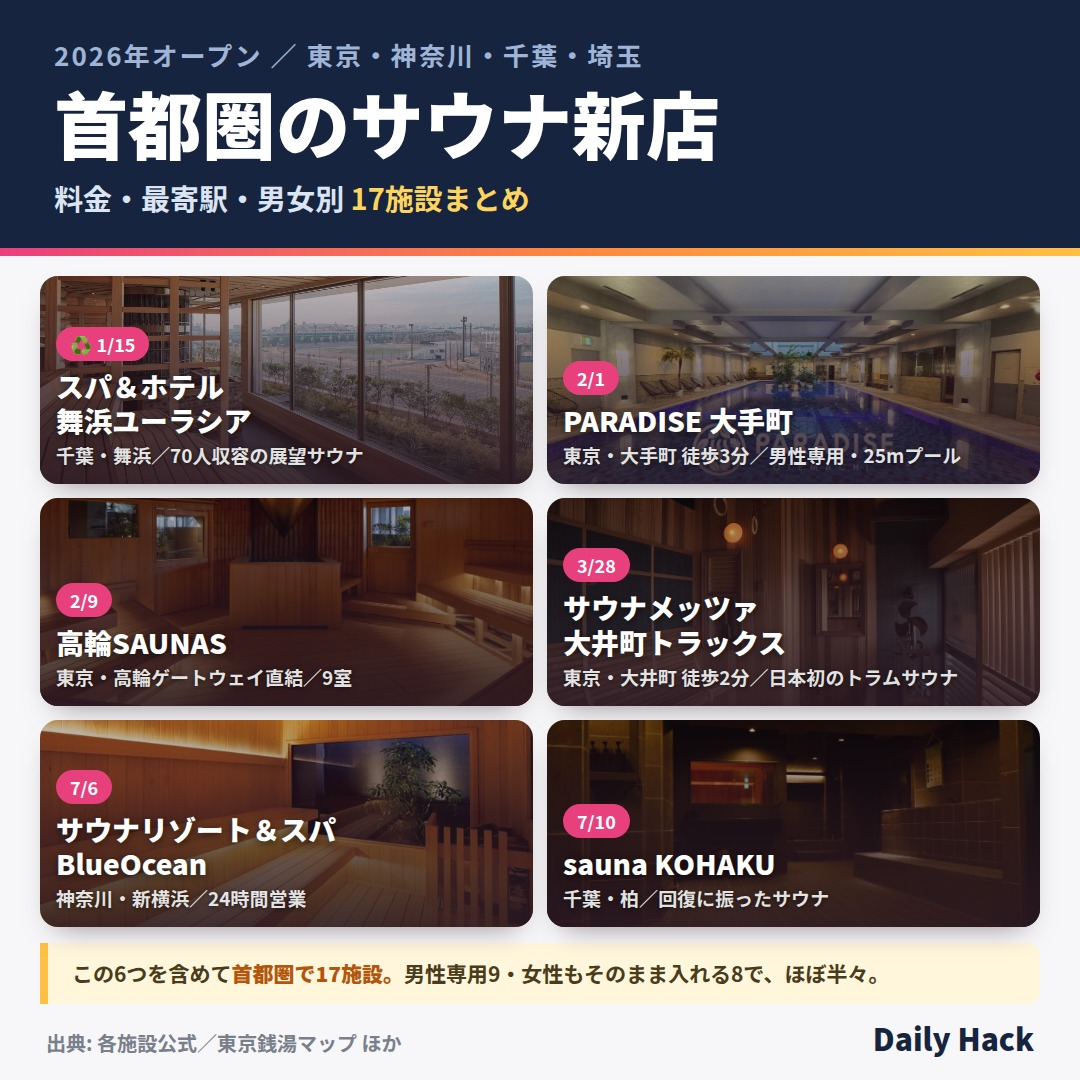
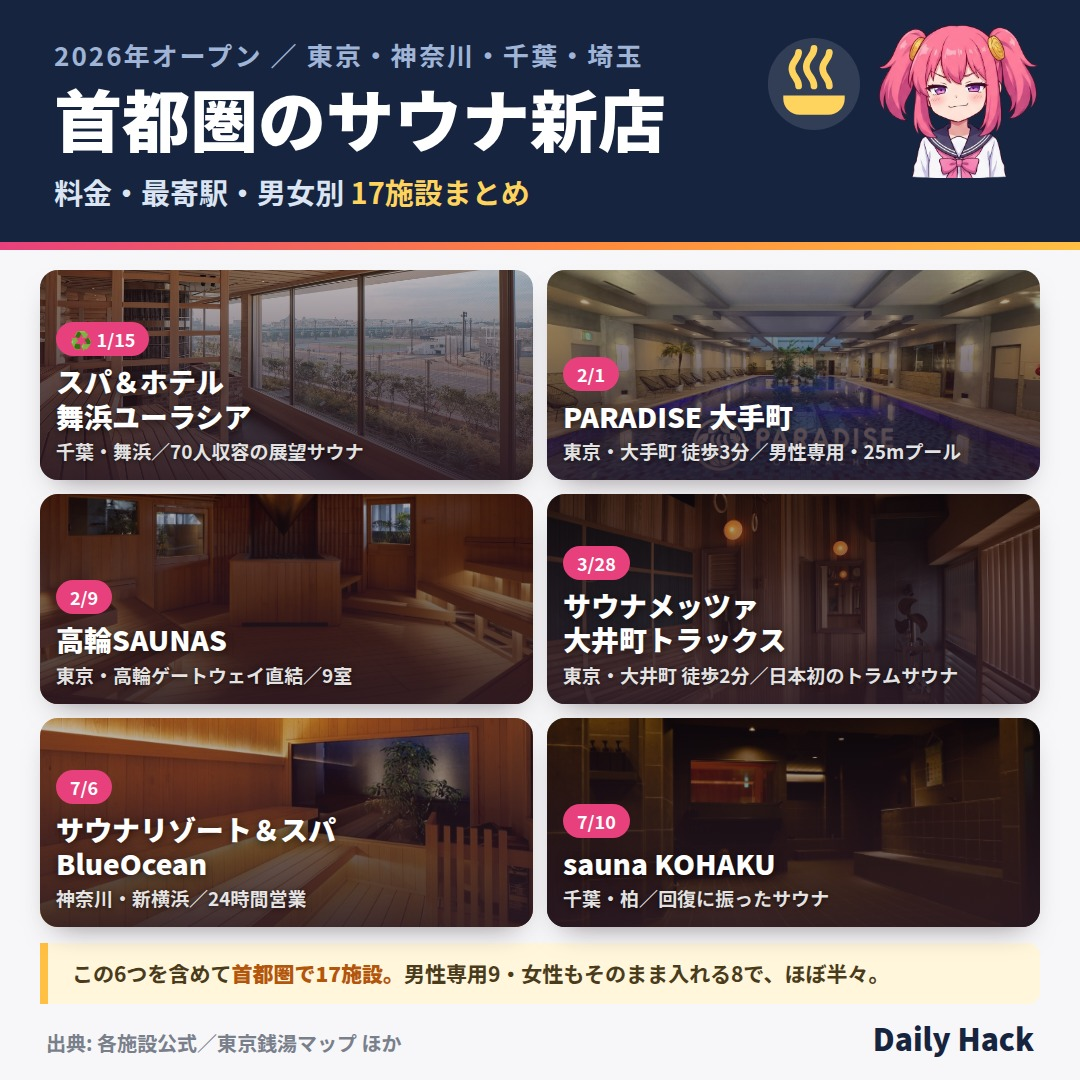
feat: 1 枚目の右上にキャラと温泉マークを置く
Jordan の指示「右上にキャラ画像を透過して表示」「温泉マークも取得してきて
同じく右上に」への対応。

## キャラ

cover に mascot を足した。public/images/ 直下のファイル名を書くと濃紺の帯の
右上に置く。expr-05-smug.png はアルファ付きなのでそのまま透過で乗る。
mascot-avatar.png はアルファが無く白い箱になるので選ばない。

## 温泉マーク

**画像を取りに行かず SVG で描いた。** Wikimedia Commons はこのセッションの
egress ポリシーで塞がれている（commons.wikimedia.org:443 connect_rejected）。
記号自体は JIS の地図記号で形に著作権は無く、描いたほうが確実で透過も解像度も
自由。ビットマップを拾うと縁が出るうえライセンス表記も要る。
実物が要るなら ops/tasks 経由で Mac に取らせる。

## 見出しの折り返し

キャラの幅だけ見出しの領域が狭まり「首都圏のサウナ新／店」と 2 行に折れた。
h1 を 68px、max-width を 700px にして 1 行に戻した。

差し替え後の画像は Read で開いて目視確認済み。
LLM を呼ばないため $0/回・$0/日・$0/月。

Claude-Session: https://claude.ai/code/session_01H2JQqdMCeKNiMVUTrAyX2t

diff --git a/.claude/skills/x-post-images/SKILL.md b/.claude/skills/x-post-images/SKILL.md
@@ -56,6 +56,8 @@ node scripts/gen-x-cards.mjs ops/data/x-cards/<slug>.json
     "kicker": "2026年オープン ／ 東京・神奈川・千葉・埼玉",
     "title": "首都圏のサウナ新店",
     "sub": "料金・最寄駅・男女別 <em>17施設まとめ</em>",   // em は黄色になる
+    "mascot": "expr-05-smug.png",   // 右上にキャラ（省くと出ない）
+    "mark": true,                    // 右上に温泉マーク。false で消す
     "columns": 2,
     "cards": [
       { "img": "facilities/maihama.jpg", "badge": "♻ 1/15",
@@ -74,6 +76,24 @@ node scripts/gen-x-cards.mjs ops/data/x-cards/<slug>.json
   ]
 }
 ```
+
+## 2-B. 右上のキャラと温泉マーク
+
+`mascot` に `public/images/` 直下のファイル名を書くと、濃紺の帯の右上に置く。
+
+- **透過 PNG を選ぶ。** `expr-01`〜`expr-09` はアルファ付き。
+  `mascot-avatar.png` は**アルファが無い**ので白い箱になる
+- 表情は記事の空気で選ぶ。得意げなら `expr-05-smug`、応援なら `expr-04-cheer`
+- **見出しが折り返さないか必ず見る。** キャラの幅だけ見出しの領域が狭くなる。
+  折れたら `title` を短くするか `<br>` で自分で切る
+
+温泉マーク（♨）は**画像を取りに来ず SVG で描いている。**
+
+> Wikimedia Commons はクラウドセッションの egress ポリシーで塞がれている
+> （`commons.wikimedia.org:443 connect_rejected`）。
+> 記号自体は JIS の地図記号で形に著作権は無く、**描いたほうが確実で透過も解像度も自由。**
+> ビットマップを拾うと縁が出るうえライセンス表記も要る。
+> どうしても実物が要るなら `ops/tasks` 経由で Mac に取らせる（Mac からは届く）。
 
 ## 3. 出典は必ず画像の中へ
 
@@ -111,6 +131,7 @@ node scripts/gen-x-cards.mjs ops/data/x-cards/<slug>.json
 | --- | --- | --- |
 | 2026-08-30 | 1・2 投稿目で画像が同じ／X 用に**正方形**に／1 枚目は記事冒頭のサマリーボックスを取り込んだまとめ／2〜4 枚目は**実際にオープンした施設の写真**／2 投稿目は記事の紹介 | このスキルと `scripts/gen-x-cards.mjs` を作成 |
 | 2026-08-30 | **1 枚目は施設名と写真を 6 施設ぶんまとめる。**構図は今のまま | cover のカードを「施設カード」型（`badge`/`title`/`meta`）に対応させ、3 段でも収まるよう自動で詰める `dense` を追加 |
+| 2026-08-30 | **右上にキャラを透過で置く。温泉マークも取ってきて同じく右上に** | `mascot` / `mark` を cover に追加。♨ は Commons が塞がれているため SVG で描画。キャラの幅だけ見出し領域が狭まるので、折り返さないよう `h1` を 68px・`max-width` 700px に調整 |
 
 <!-- 追記はこの表の下に。日付・指摘・反映 の 3 列を必ず埋める -->
 
